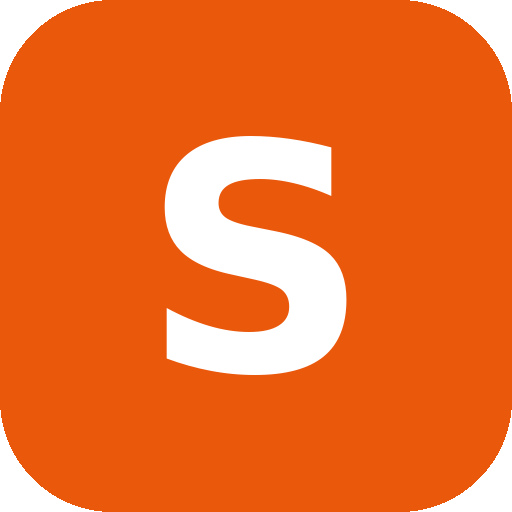
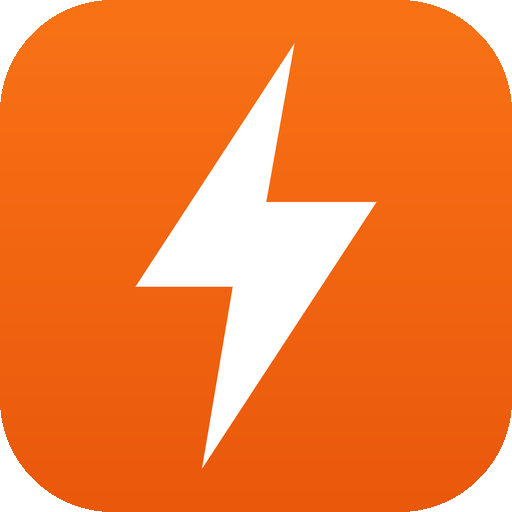
feat: landing visual, logotipo de marca e iconos PWA (#18)
- Logotipo Staffya: un rayo (velocidad) sobre gradiente naranja, como
  componente SVG reutilizable (Logo) y en el navbar.
- Iconos de PWA/favicon regenerados con la marca (192, 512, maskable,
  apple-icon, favicon.ico) + logo.svg.
- Landing rediseñada estilo Rappi: hero con logo, "cómo funciona" en 3
  pasos y features en tarjetas, con CTA final.

Claude-Session: https://claude.ai/code/session_01PUj8aKJfTabA1kQ2CpqQaG

Changed region(s): [[0.0625, 0.0, 0.9375, 0.9062]]

diff --git a/frontend/app/page.tsx b/frontend/app/page.tsx
@@ -2,58 +2,155 @@
 
 import Link from "next/link";
 import { useAuth } from "@/lib/auth-context";
+import Logo from "@/components/Logo";
+
+const STEPS = [
+  {
+    emoji: "📝",
+    title: "Publicá el turno",
+    text: "Cargá la posición, el horario y la paga. En segundos queda visible.",
+  },
+  {
+    emoji: "⚡",
+    title: "Te recomendamos personal",
+    text: "Nuestro motor rankea candidatos por cercanía, experiencia y reputación.",
+  },
+  {
+    emoji: "✅",
+    title: "Asignás y listo",
+    text: "El trabajador confirma, hace check-in con ubicación y coordinan por chat.",
+  },
+];
+
+const FEATURES = [
+  { emoji: "📍", title: "Asistencia con GPS", text: "Check-in y check-out geolocalizado para saber que todo salió bien." },
+  { emoji: "💬", title: "Chat integrado", text: "Coordiná los detalles de cada turno sin salir de la app." },
+  { emoji: "⭐", title: "Reputación", text: "Rating, puntualidad e historial para elegir con confianza." },
+  { emoji: "🔔", title: "Notificaciones", text: "Enterate al instante de asignaciones, confirmaciones y pagos." },
+];
 
 export default function Home() {
   const { user, loading } = useAuth();
 
   return (
-    <div className="mx-auto max-w-3xl px-4 py-20 text-center">
-      <h1 className="text-4xl font-extrabold tracking-tight text-zinc-900 sm:text-5xl">
-        Cubrí un turno en{" "}
-        <span className="text-orange-600">menos de 10 minutos</span>
-      </h1>
-      <p className="mt-4 text-lg text-zinc-600">
-        Staffya conecta comercios gastronómicos y eventos con personal eventual,
-        en tiempo real.
-      </p>
+    <div className="mx-auto max-w-5xl px-4 py-16">
+      {/* Hero */}
+      <section className="text-center">
+        <div className="flex justify-center">
+          <Logo size={64} withWordmark={false} />
+        </div>
+        <h1 className="mt-6 text-4xl font-extrabold tracking-tight text-zinc-900 sm:text-5xl">
+          Cubrí un turno en{" "}
+          <span className="text-orange-600">menos de 10 minutos</span>
+        </h1>
+        <p className="mx-auto mt-4 max-w-2xl text-lg text-zinc-600">
+          Staffya conecta comercios gastronómicos y eventos con personal eventual,
+          en tiempo real. Como pedir un delivery, pero de staff.
+        </p>
 
+        {!loading && !user && (
+          <div className="mt-8 flex flex-wrap justify-center gap-4">
+            <Link
+              href="/register"
+              className="rounded-full bg-orange-600 px-6 py-3 font-semibold text-white shadow-sm transition hover:bg-orange-700"
+            >
+              Crear cuenta gratis
+            </Link>
+            <Link
+              href="/login"
+              className="rounded-full border border-zinc-300 px-6 py-3 font-semibold transition hover:bg-zinc-100"
+            >
+              Ya tengo cuenta
+            </Link>
+          </div>
+        )}
+
+        {!loading && user?.role === "worker" && (
+          <div className="mt-8">
+            <Link
+              href="/feed"
+              className="rounded-full bg-orange-600 px-6 py-3 font-semibold text-white hover:bg-orange-700"
+            >
+              Ver turnos disponibles
+            </Link>
+          </div>
+        )}
+
+        {!loading && user?.role === "employer" && (
+          <div className="mt-8">
+            <Link
+              href="/shifts"
+              className="rounded-full bg-orange-600 px-6 py-3 font-semibold text-white hover:bg-orange-700"
+            >
+              Ver mis turnos
+            </Link>
+          </div>
+        )}
+      </section>
+
+      {/* Cómo funciona */}
+      <section className="mt-20">
+        <h2 className="text-center text-2xl font-bold text-zinc-900">Cómo funciona</h2>
+        <div className="mt-8 grid gap-5 sm:grid-cols-3">
+          {STEPS.map((s, i) => (
+            <div
+              key={s.title}
+              className="rounded-2xl bg-white p-6 text-center shadow-sm ring-1 ring-zinc-100"
+            >
+              <div className="mx-auto flex h-12 w-12 items-center justify-center rounded-full bg-orange-100 text-2xl">
+                {s.emoji}
+              </div>
+              <p className="mt-3 text-sm font-bold text-orange-600">Paso {i + 1}</p>
+              <h3 className="mt-1 font-bold text-zinc-900">{s.title}</h3>
+              <p className="mt-2 text-sm text-zinc-600">{s.text}</p>
+            </div>
+          ))}
+        </div>
+      </section>
+
+      {/* Features */}
+      <section className="mt-20">
+        <h2 className="text-center text-2xl font-bold text-zinc-900">
+          Todo lo que necesitás para resolver el staffing
+        </h2>
+        <div className="mt-8 grid gap-5 sm:grid-cols-2 lg:grid-cols-4">
+          {FEATURES.map((f) => (
+            <div
+              key={f.title}
+              className="rounded-2xl bg-white p-6 shadow-sm ring-1 ring-zinc-100 transition hover:shadow-md"
+            >
+              <div className="text-3xl">{f.emoji}</div>
+              <h3 className="mt-3 font-bold text-zinc-900">{f.title}</h3>
+              <p className="mt-2 text-sm text-zinc-600">{f.text}</p>
+            </div>
+          ))}
+        </div>
+      </section>
+
+      {/* CTA final */}
       {!loading && !user && (
-        <div className="mt-8 flex justify-center gap-4">
-          <Link
-            href="/register"
-            className="rounded-full bg-orange-600 px-6 py-3 font-semibold text-white hover:bg-orange-700"
-          >
-            Crear cuenta
-          </Link>
-          <Link
-            href="/login"
-            className="rounded-full border border-zinc-300 px-6 py-3 font-semibold hover:bg-zinc-100"
-          >
-            Ya tengo cuenta
-          </Link>
-        </div>
-      )}
-
-      {!loading && user?.role === "worker" && (
-        <div className="mt-8">
-          <Link
-            href="/feed"
-            className="rounded-full bg-orange-600 px-6 py-3 font-semibold text-white hover:bg-orange-700"
-          >
-            Ver turnos disponibles
-          </Link>
-        </div>
-      )}
-
-      {!loading && user?.role === "employer" && (
-        <div className="mt-8">
-          <Link
-            href="/shifts"
-            className="rounded-full bg-orange-600 px-6 py-3 font-semibold text-white hover:bg-orange-700"
-          >
-            Ver mis turnos
-          </Link>
-        </div>
+        <section className="mt-20 rounded-3xl bg-gradient-to-b from-orange-500 to-orange-600 px-6 py-12 text-center text-white">
+          <h2 className="text-2xl font-bold sm:text-3xl">
+            ¿Listo para cubrir tu próximo turno?
+          </h2>
+          <p className="mx-auto mt-2 max-w-xl text-orange-50">
+            Sumate gratis. Sin contratos, sin vueltas: publicás y resolvés.
+          </p>
+          <div className="mt-6 flex flex-wrap justify-center gap-4">
+            <Link
+              href="/register"
+              className="rounded-full bg-white px-6 py-3 font-semibold text-orange-600 transition hover:bg-orange-50"
+            >
+              Crear cuenta
+            </Link>
+            <Link
+              href="/login"
+              className="rounded-full border border-white/60 px-6 py-3 font-semibold text-white transition hover:bg-white/10"
+            >
+              Ingresar
+            </Link>
+          </div>
+        </section>
       )}
     </div>
   );

diff --git a/frontend/components/Logo.tsx b/frontend/components/Logo.tsx
@@ -1,0 +1,42 @@
+export default function Logo({
+  size = 28,
+  withWordmark = true,
+}: {
+  size?: number;
+  withWordmark?: boolean;
+}) {
+  return (
+    <span className="inline-flex items-center gap-2">
+      <svg
+        width={size}
+        height={size}
+        viewBox="0 0 512 512"
+        fill="none"
+        xmlns="http://www.w3.org/2000/svg"
+        role="img"
+        aria-label="Staffya"
+      >
+        <defs>
+          <linearGradient
+            id="logoGrad"
+            x1="0"
+            y1="0"
+            x2="0"
+            y2="512"
+            gradientUnits="userSpaceOnUse"
+          >
+            <stop stopColor="#f97316" />
+            <stop offset="1" stopColor="#ea580c" />
+          </linearGradient>
+        </defs>
+        <rect width="512" height="512" rx="113" fill="url(#logoGrad)" />
+        <path d="M294 44 L136 287 H233 L202 468 L376 202 H266 Z" fill="#ffffff" />
+      </svg>
+      {withWordmark && (
+        <span className="text-xl font-extrabold tracking-tight text-zinc-900">
+          Staff<span className="text-orange-600">ya</span>
+        </span>
+      )}
+    </span>
+  );
+}

diff --git a/frontend/components/Navbar.tsx b/frontend/components/Navbar.tsx
@@ -3,6 +3,7 @@
 import Link from "next/link";
 import { useAuth } from "@/lib/auth-context";
 import NotificationBell from "@/components/NotificationBell";
+import Logo from "@/components/Logo";
 
 export default function Navbar() {
   const { user, logout, loading } = useAuth();
@@ -10,8 +11,8 @@ export default function Navbar() {
   return (
     <header className="border-b border-zinc-200 bg-white">
       <div className="mx-auto flex max-w-5xl items-center justify-between px-4 py-3">
-        <Link href="/" className="text-xl font-bold text-orange-600">
-          Staffya
+        <Link href="/" aria-label="Inicio">
+          <Logo />
         </Link>
         <nav className="flex items-center gap-4 text-sm font-medium">
           {!loading && user?.role === "worker" && (
